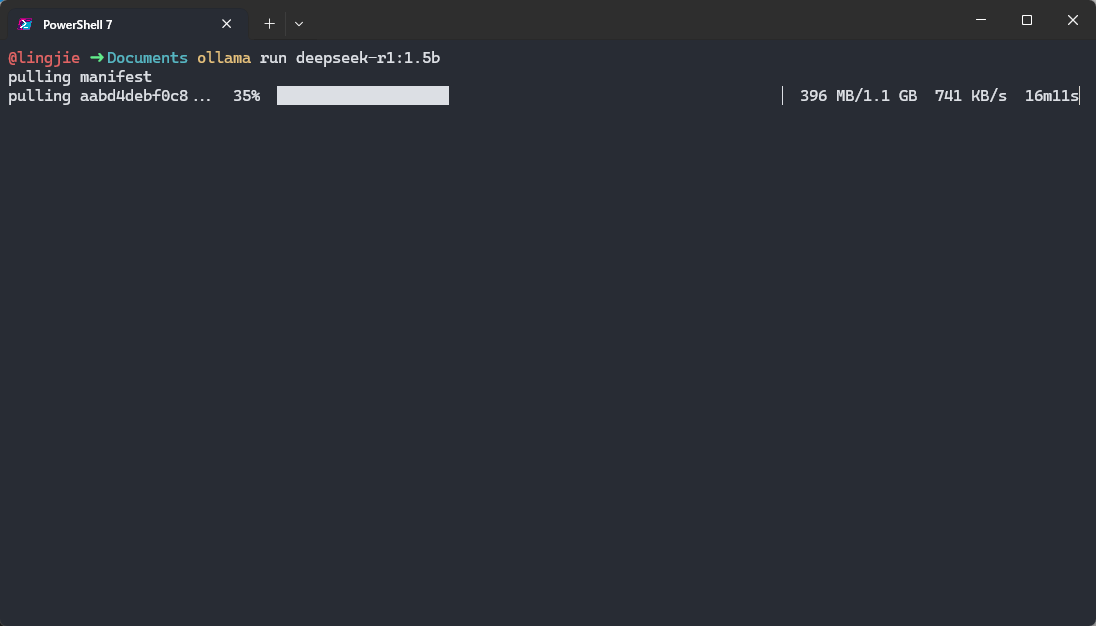
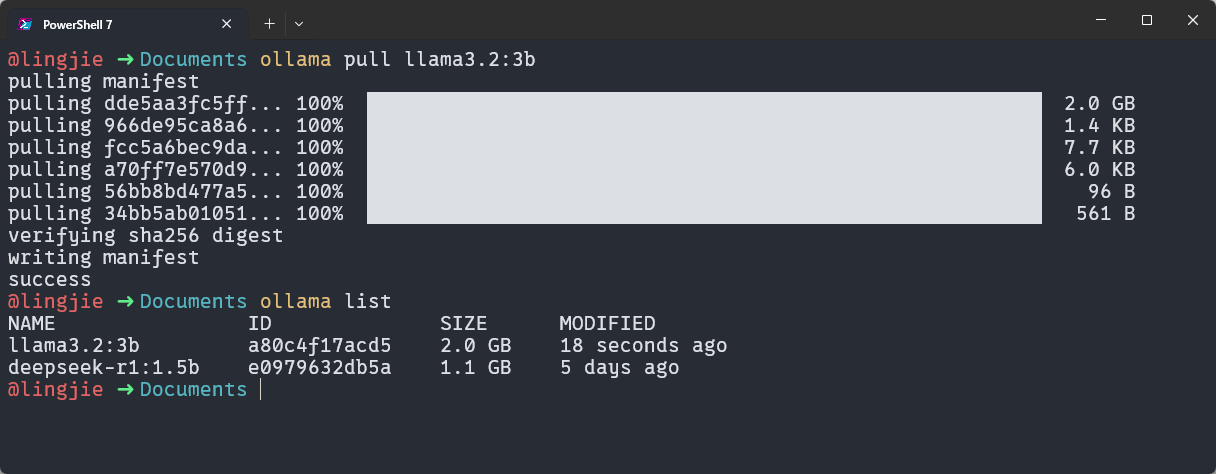
整理AI学习笔记：LLM的部署

diff --git a/02_基础技术研究/05.人工智能/01.学习笔记/LLM 部署实践.md b/02_基础技术研究/05.人工智能/01.学习笔记/LLM 部署实践.md
@@ -1,5 +1,5 @@
 ---
-title: LLM 部署笔记 
+title: LLM 部署实践
 author: 凌杰
 date: 2026-01-31
 tags: 大语言模型, Ollama
@@ -10,7 +10,7 @@ categories: 人工智能
 >
 > 这篇笔记对应的是《[[关于 AI 的学习路线图]]》一文中所规划的第三个学习阶段。其中记录了我尝试将 LLM 部署到生产环境中，并对其进行相关调试的全过程，以及在该过程中所获得的心得体会。同样的，这些内容也将成为我 AI 系列笔记的一部分，被存储在本人 Github 上的[计算机学习笔记库](https://github.com/owlman/CS_StudyNotes)中，并予以长期维护。
 
-## LLM 的本地部署
+## 关于 LLM 的本地部署
 
 正如我之前在《[[关于 AI 的学习路线图]]》一文中所提到的，从学习的角度来说，如果我们要想切实了解 LLM 在计算机软件系统中所处的位置，以及它在生产环境中所扮演的角色，最直接的方式就是尝试将其部署到我们自己所在的计算机环境中，并通过调试来观察它与用户的交互方式。但是，如果想要实现在本地部署 LLM 这种大型应用，我们首先要解决一个很现实的问题：*如何用有限的硬件资源、以可控的方式将其运行起来？*
 
@@ -40,48 +40,61 @@ Ollama 的安装过程本身非常简单，读者可以自行前往它的[官方
 
 接下来，我们要做的就是选择一款适合当前学习任务的 LLM，并尝试使用 Ollama 来将其部署到我们的本地环境中。
 
-### 选择要部署的模型
+### 选择并部署 LLM
 
 关于应该选择什么模型来完成我们在这一阶段的学习，这主要取决于我们**要实验的任务类型**和**电脑配置**。以下这张表是我基于这篇笔记写作的时间点（即 2026 年 2 月），整理出的当前主流的候选模型。
 
 | 推荐模型 | 主要特点与优势 | 适用场景 | 硬件要求参考 |
 | -------- | -------------- | -------- | ------------ |
 | **通用最佳平衡** | | | |
-| **Qwen2.5-7B-Instruct** | 7B 级别综合性能强，指令跟随、长上下文支持好，通用性高。 | 文档总结、内容创作、知识问答、轻量级智能体任务。 | 16GB+ 内存，量化后可降低需求。 |
+| **Qwen2.5-7B** | 7B 级别综合性能强，指令跟随、长上下文支持好，通用性高。 | 文档总结、内容创作、知识问答、轻量级智能体任务。 | 16GB+ 内存，量化后可降低需求。 |
 | **Llama 3.3 系列** | Meta 出品，生态完善，工具调用支持好，3B 版本速度极快。 | 快速对话、多语言任务、对响应速度要求高的应用。 | 3B 模型：8-16GB 内存；8B 模型需求更高。 |
 | **专注编程任务** | | | |
 | **Qwen3-Coder 系列** | 阿里出品，在代码理解和生成任务上表现优异，有不同尺寸可选。 | 代码解释、补全、调试、学习编程。 | 1.7B/4B/8B 等不同规格，可按需选择。 |
-| **Mistral** | Mistral AI 的编程专用模型，擅长生成、调试和解释代码。 | 专注于软件开发辅助的各类任务。 | 推荐 16GB 以上内存。 |
+| **Mistral 系列** | Mistral AI 的编程专用模型，擅长生成、调试和解释代码。 | 专注于软件开发辅助的各类任务。 | 推荐 16GB 以上内存。 |
 | **资源受限环境** | | | |
 | **SmolLM3-3B** | 完全开源，性能优秀，在 3B 级别中表现出色，可控性强。 | 对开源合规要求高，或需要在低配硬件上部署。 | 可在普通笔记本电脑上运行。 |
-| **Llama 3.2 3B Instruct** | 体积小、速度快，适合部署在多种设备上，对硬件要求低。 | 需要即时响应的嵌入式应用或移动端场景。 | 8-16GB 内存即可。 |
+| **Llama 3.2 3B** | 体积小、速度快，适合部署在多种设备上，对硬件要求低。 | 需要即时响应的嵌入式应用或移动端场景。 | 8-16GB 内存即可。 |
 
 根据上面的表格，我们可以先参照以下提示来确定选择：
 
-- 如果硬件资源不给力（例如内存容量只有 16GB 或更少，没有独立显卡），可以选择`SmolLM3-3B`或`Llama 3.2 3B Instruct`；
-- 如果想优先考虑通用对话和写作，可以选择`Qwen2.5-7B-Instruct`或`Llama 3.3 8B`；
-- 如果想优先考虑将其用于编程辅助，`Qwen3-Coder`或`Mistral`是更好的选择；
+- 如果硬件资源不给力（例如内存容量只有 16GB 或更少，没有独立显卡），可以选择`SmolLM3-3B`或`Llama 3.2 3B`；
+- 如果想优先考虑通用对话和写作，可以选择`Qwen2.5-7B`或`Llama 3.3 8B`；
+- 如果想优先考虑将其用于编程辅助，`Qwen3-Coder`或`Mistral`系列可能是更好的选择；
 
-由于这篇笔记的任务是基于学习的目的来部署 LLM，它最好能让读者在最普通的个人笔记本上进行过程相对流畅的实验，因此我决定接下来就选择`Llama 3.2 3B Instruct`来进行演示了。
+由于这篇笔记的任务是基于学习的目的来部署 LLM，它最好能让读者在最普通的个人笔记本上进行过程相对流畅的实验，因此我决定接下来就选择`Llama 3.2 3B`来进行演示了。
 
-### LLM 的具体部署演示
+基本上，使用 Ollama 部署 LLM 的操作步骤与使用 docker 部署服务端应用的过程非常类似，具体如下：
 
-1. **拉取模型**：打开终端，输入命令，例如 `ollama pull llama3.2:3b-instruct`，即可开始拉取模型。
-2. **运行测试**：输入 `ollama run llama3.2:3b-instruct`，即可开始交互测试。**强烈建议用你的实际任务去测试**，看看生成质量是否满足要求。
+1. **拉取模型**：打开命令行终端并输入`ollama pull llama3.2:3b`命令，即可从 Ollama 的官方服务器上拉取我们所选择的 LLM 镜像，如图 3 所示。
 
-## LLM 的本地调试
+    ![图3：使用 Ollama 拉取 LLM 镜像](./img/ollama_pulling.png)
+
+    **图 3**：使用 Ollama 拉取 LLM 镜像
+
+    正如读者所见，如果镜像被顺利拉取到本地，当我们继续在命令行终端输入`ollama list`命令时，就可以看到`llama3.2:3b`这个镜像已经存在于 Ollama 在本地管理的镜像列表中了。
+
+2. **运行测试**：继续在图 3 所示命令行界面中输入 `ollama run llama3.2:3b`命令即可开始交互测试。在这里，我们演示的是一个 LLM 版的“Hello World”，如图 4 所示。
+
+    ![图4：使用 Ollama 运行 LLM 镜像](./img/ollama_running.png)
+
+    **图 4**：使用 Ollama 运行 LLM 镜像
+
+至此，我们就算完成了一次基于 Ollama 的 LLM 部署。接下来，我们的任务就是要试着对这个 LLM 进行调试，以观察它与用户的交互方式。
+
+## 针对 LLM 的调试与观察
 
 - 调试的不是“回答质量”，而是“系统行为”
 - 常见失败模式（超时、幻觉、不可解析输出）
 - 为什么这些不是“模型 bug”
 
-## LLM 在系统中的角色边界
+### LLM 在系统中的角色边界
 
 - 什么决策不能交给模型
 - 什么输入必须被结构化
 - 为什么 LLM 不应该直接驱动系统状态变化
 
-## 从部署中得到的工程结论
+### 从部署中得到的工程结论
 
 - 哪些问题是部署前没意识到的
 - 哪些风险是模型引入后才出现的
